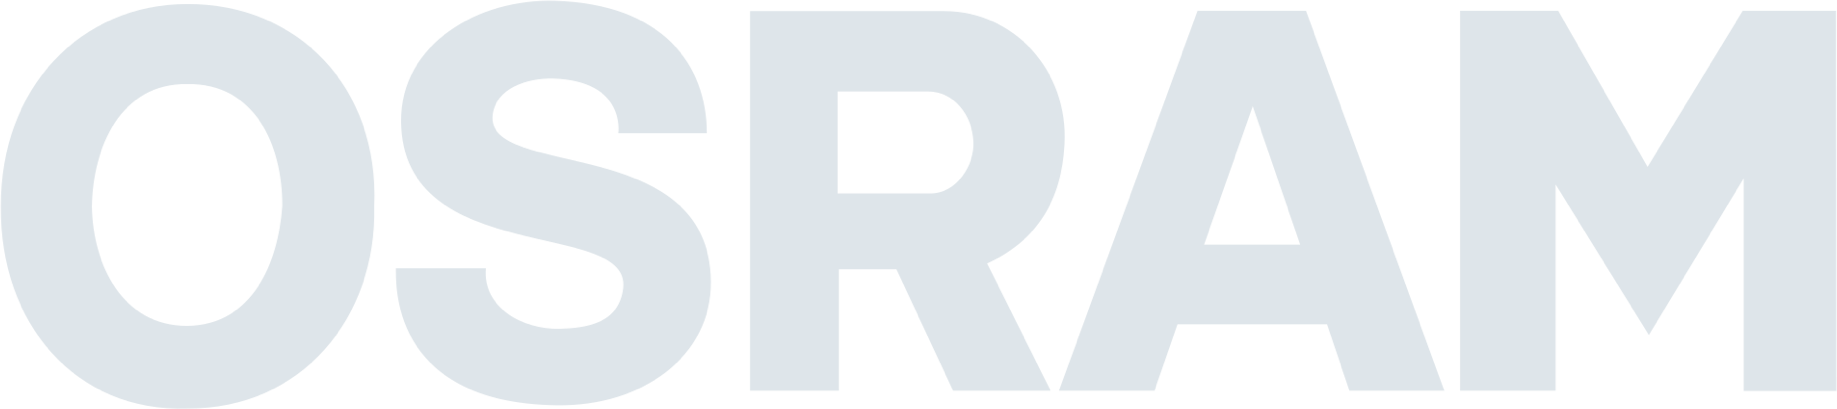
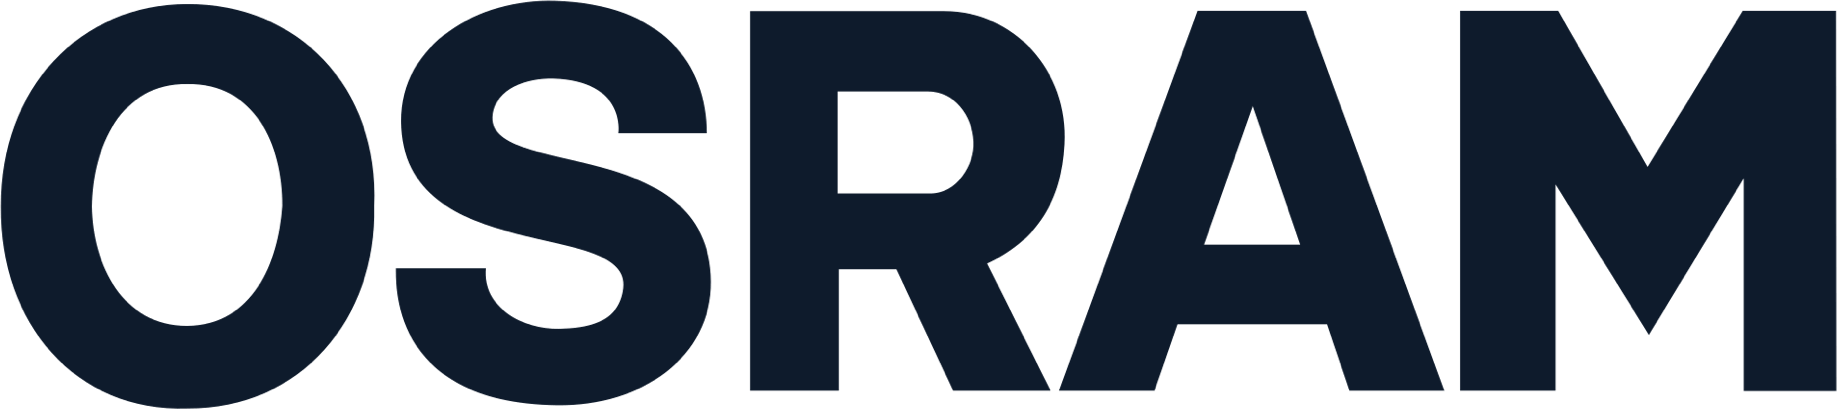
Adoucir la promesse de délai, resserrer les avis, rendre les marques lisibles
- « Réponse sous 24h ouvrées » remplacé par « réponse rapide, aux horaires
  d'ouverture » (hero du bloc devis, écran de confirmation, FAQ) : Enzo ne
  souhaite pas s'engager sur un délai ferme.
- « contrôle 24 points » retiré des prestations : ce chiffre avait déjà été
  supprimé de la bande de statistiques, le laisser ici était incohérent.
- Avis : la note apparaissait deux fois de suite (pastille puis encadré), et la
  section paraissait vide sans témoignages. Un seul bloc désormais, avec la
  note en grand, le nombre d'avis et le lien vers la source.
- Logos partenaires : les fichiers récupérés du WordPress sont des filigranes
  gris clair (RGB 221,228,233) destinés à un fond sombre — aucune règle CSS ne
  pouvait les rendre lisibles, d'où l'échec des deux réglages d'opacité
  précédents. Les pixels sont désormais repeints en navy en conservant le canal
  alpha : mur de marques monochrome et net.

diff --git a/components/Reviews.tsx b/components/Reviews.tsx
@@ -4,54 +4,81 @@ import Reveal from './Reveal';
 
 export default function Reviews() {
   return (
-    <section id="avis" className="py-[74px]">
+    <section id="avis" className="bg-white py-[74px]">
       <div className="mx-auto max-w-6xl px-5">
         <Reveal>
-          <div className="mx-auto mb-11 max-w-2xl text-center">
-            <span className="inline-block rounded-full bg-red-wash px-3 py-1.5 text-xs font-extrabold uppercase tracking-wide text-red">Avis clients</span>
-            <h2 className="mb-4 mt-3 text-[34px] font-extrabold tracking-tight text-ink">Ils nous font confiance</h2>
-            <div className="inline-flex items-center gap-2.5 rounded-full border border-line bg-white px-4 py-2">
-              <span className="flex gap-0.5 text-amber-400">{Array.from({ length: 5 }).map((_, i) => <Star key={i} className="h-4 w-4" />)}</span>
-              <span className="text-sm font-bold text-ink">{site.googleRating}/5</span>
-              <span className="text-sm text-mut">· {site.googleCount} avis Google</span>
-            </div>
+          <div className="mx-auto mb-9 max-w-2xl text-center">
+            <span className="inline-block rounded-full bg-red-wash px-3 py-1.5 text-xs font-extrabold uppercase tracking-wide text-red">
+              Avis clients
+            </span>
+            <h2 className="mt-3 text-[34px] font-extrabold tracking-tight text-ink">Ils nous font confiance</h2>
           </div>
         </Reveal>
 
-        {/* Tant qu'aucun vrai avis n'a été repris depuis Google, on n'affiche
-            aucun témoignage : la note et le lien vers les avis réels suffisent,
-            et ils sont vérifiables par le client d'un clic. */}
-        {reviews.length === 0 && (
+        {/* Aucun témoignage n'est reproduit ici tant qu'aucun vrai avis n'a été repris
+            depuis Google : la note et le lien vers la source suffisent, et ils sont
+            vérifiables. La note n'est affichée qu'une fois — elle l'était deux fois. */}
+        {reviews.length === 0 ? (
           <Reveal>
-            <div className="mx-auto max-w-2xl rounded-2xl border border-line bg-white p-8 text-center">
-              <p className="text-[17px] leading-relaxed text-body">
-                <strong className="font-bold text-ink">{site.googleCount} clients</strong> ont noté le garage
-                sur Google, pour une moyenne de <strong className="font-bold text-ink">{site.googleRating}/5</strong>.
-              </p>
-              <p className="mt-2 text-[14.5px] text-mut">
-                Nous préférons vous laisser les lire directement à la source, plutôt que d’en sélectionner
-                quelques-uns ici.
-              </p>
+            <div className="mx-auto flex max-w-3xl flex-col items-center gap-6 rounded-2xl border border-line bg-wash p-9 text-center sm:flex-row sm:gap-10 sm:text-left">
+              <div className="shrink-0">
+                <p className="text-[56px] font-extrabold leading-none tracking-tight text-ink">
+                  {String(site.googleRating).replace('.', ',')}
+                  <span className="text-[24px] font-bold text-mut">/5</span>
+                </p>
+                <div className="mt-2 flex justify-center gap-0.5 text-amber-400 sm:justify-start">
+                  {Array.from({ length: 5 }).map((_, i) => <Star key={i} className="h-5 w-5" />)}
+                </div>
+                <p className="mt-1.5 text-[13.5px] font-semibold text-mut">{site.googleCount} avis Google</p>
+              </div>
+
+              <div className="flex-1">
+                <p className="text-[16.5px] leading-relaxed text-body">
+                  <strong className="font-bold text-ink">{site.googleCount} clients</strong> ont pris le temps de
+                  noter le garage. Plutôt que d’en sélectionner trois à notre avantage, nous préférons vous
+                  laisser les lire tous, à la source.
+                </p>
+                <a
+                  href={site.googleReviewsUrl}
+                  target="_blank"
+                  rel="noopener"
+                  className="mt-5 inline-flex items-center gap-2 rounded-full bg-navy px-6 py-3.5 text-[15px] font-bold text-white transition hover:bg-navy-3"
+                >
+                  Lire les avis sur Google
+                  <svg width="16" height="16" viewBox="0 0 24 24" fill="none" stroke="currentColor" strokeWidth="2.5" strokeLinecap="round" strokeLinejoin="round">
+                    <path d="M5 12h14M13 6l6 6-6 6" />
+                  </svg>
+                </a>
+              </div>
             </div>
           </Reveal>
+        ) : (
+          <>
+            <div className="grid grid-cols-1 gap-5 md:grid-cols-3">
+              {reviews.map((r, i) => (
+                <Reveal key={r.name} delay={i * 90}>
+                  <figure className="h-full rounded-2xl border border-line bg-white p-6 shadow-sm transition hover:-translate-y-1 hover:shadow-[0_10px_30px_rgba(14,27,44,.08)]">
+                    <div className="mb-3 flex gap-0.5 text-amber-400">
+                      {Array.from({ length: r.stars }).map((_, k) => <Star key={k} />)}
+                    </div>
+                    <blockquote className="mb-4 text-[15px] leading-relaxed text-body">« {r.text} »</blockquote>
+                    <figcaption className="text-sm font-bold text-ink">{r.name}</figcaption>
+                  </figure>
+                </Reveal>
+              ))}
+            </div>
+            <div className="mt-9 text-center">
+              <a
+                href={site.googleReviewsUrl}
+                target="_blank"
+                rel="noopener"
+                className="inline-flex items-center gap-2 rounded-full border border-line bg-white px-6 py-3 text-sm font-bold text-ink transition hover:border-red hover:text-red"
+              >
+                Voir tous nos avis Google →
+              </a>
+            </div>
+          </>
         )}
-
-        <div className="grid grid-cols-1 gap-5 md:grid-cols-3">
-          {reviews.map((r, i) => (
-            <Reveal key={r.name} delay={i * 90}>
-              <figure className="h-full rounded-2xl border border-line bg-white p-6 shadow-sm transition hover:-translate-y-1 hover:shadow-[0_10px_30px_rgba(14,27,44,.08)]">
-                <div className="mb-3 flex gap-0.5 text-amber-400">{Array.from({ length: r.stars }).map((_, k) => <Star key={k} />)}</div>
-                <blockquote className="mb-4 text-[15px] leading-relaxed text-body">« {r.text} »</blockquote>
-                <figcaption className="text-sm font-bold text-ink">{r.name}</figcaption>
-              </figure>
-            </Reveal>
-          ))}
-        </div>
-        <div className="mt-9 text-center">
-          <a href={site.googleReviewsUrl} target="_blank" rel="noopener" className="inline-flex items-center gap-2 rounded-full border border-line bg-white px-6 py-3 text-sm font-bold text-ink transition hover:border-red hover:text-red">
-            Voir tous nos avis Google →
-          </a>
-        </div>
       </div>
     </section>
   );

diff --git a/lib/site.ts b/lib/site.ts
@@ -32,7 +32,9 @@ export const photos = {
 };
 
 export const services = [
-  { t: 'Révision & vidange', d: 'Forfaits entretien toutes marques, filtres et contrôle 24 points inclus.', icon: 'oil' },
+  // « contrôle 24 points » retiré ici aussi : le chiffre n'est fondé sur rien,
+  // il avait déjà été enlevé de la bande de statistiques.
+  { t: 'Révision & vidange', d: 'Forfaits entretien toutes marques, filtres et contrôle inclus.', icon: 'oil' },
   { t: 'Pneus & géométrie', d: 'Montage, équilibrage, parallélisme et réparation de crevaison au champignon.', icon: 'tire' },
   { t: 'Freinage', d: 'Plaquettes, disques, purge du circuit — votre sécurité avant tout.', icon: 'brake' },
   { t: 'Climatisation', d: 'Recharge et entretien clim — notre spécialité maison, en 30 min.', icon: 'ac' },
@@ -166,7 +168,7 @@ export const faq = [
   { q: 'Faut-il prendre rendez-vous ?', a: 'Non, nous travaillons avec ou sans rendez-vous. Pour les grosses interventions (distribution, embrayage), un rendez-vous permet d’aller plus vite.' },
   { q: 'Puis-je payer en plusieurs fois ?', a: 'Oui, nous proposons le paiement en 3x ou 4x par carte, sans démarche compliquée. Idéal pour étaler une grosse réparation.' },
   { q: 'Entretenez-vous toutes les marques ?', a: 'Oui, toutes marques — sans perdre la garantie constructeur. Nous utilisons des pièces et huiles aux normes du constructeur.' },
-  { q: 'Le devis est-il gratuit ?', a: 'Toujours. Décrivez votre besoin via le formulaire ou par téléphone, et nous revenons vers vous avec un prix clair sous 24h ouvrées.' },
+  { q: 'Le devis est-il gratuit ?', a: 'Toujours. Décrivez votre besoin via le formulaire ou par téléphone, et nous revenons vers vous rapidement avec un prix clair, aux horaires d’ouverture.' },
   { q: 'C’est quoi le “diagnostic en photo” ?', a: 'À chaque contrôle, nous prenons des photos de l’usure réelle de votre véhicule. Vous voyez de vos yeux ce qui est à changer — aucune décision à l’aveugle.' },
 ];
 

diff --git a/components/Infos.tsx b/components/Infos.tsx
@@ -18,10 +18,10 @@ export default function Infos() {
           <Reveal>
             <div>
               <span className="inline-block rounded-full bg-white/15 px-3 py-1.5 text-xs font-extrabold uppercase tracking-wide text-[#ffd0d5]">Devis gratuit</span>
-              <h2 className="mb-3.5 mt-3 text-[32px] font-extrabold tracking-tight text-white">Recevez votre devis en 24h</h2>
+              <h2 className="mb-3.5 mt-3 text-[32px] font-extrabold tracking-tight text-white">Recevez votre devis gratuit</h2>
               <p className="mb-5 text-base text-white/90">Dites-nous ce dont votre voiture a besoin. On vous répond vite, avec un prix clair et sans engagement.</p>
               <ul className="flex flex-col gap-2.5">
-                {['Réponse sous 24h ouvrées', 'Prix clair, sans surprise', 'Sans engagement'].map((t) => (
+                {['Réponse rapide, aux horaires d’ouverture', 'Prix clair, sans surprise', 'Sans engagement'].map((t) => (
                   <li key={t} className="flex items-start gap-2.5 text-[15px] text-white/90"><Check className="mt-0.5 h-5 w-5 shrink-0 text-[#ff5a6a]" /> {t}</li>
                 ))}
               </ul>

diff --git a/components/DevisForm.tsx b/components/DevisForm.tsx
@@ -206,7 +206,7 @@ export default function DevisForm() {
           <Check className="h-8 w-8" />
         </div>
         <h3 className="mb-2 text-xl font-extrabold text-ink">Demande envoyée !</h3>
-        <p className="text-body">On vous rappelle sous 24h ouvrées. Merci de votre confiance.</p>
+        <p className="text-body">On vous rappelle rapidement, aux horaires d’ouverture. Merci de votre confiance.</p>
         {est?.low != null && est.high != null && (
           <p className="mt-3 text-[13px] text-mut">
             Estimation retenue : entre {est.low} et {est.high} €. Le devis définitif sera établi après le contrôle gratuit.
